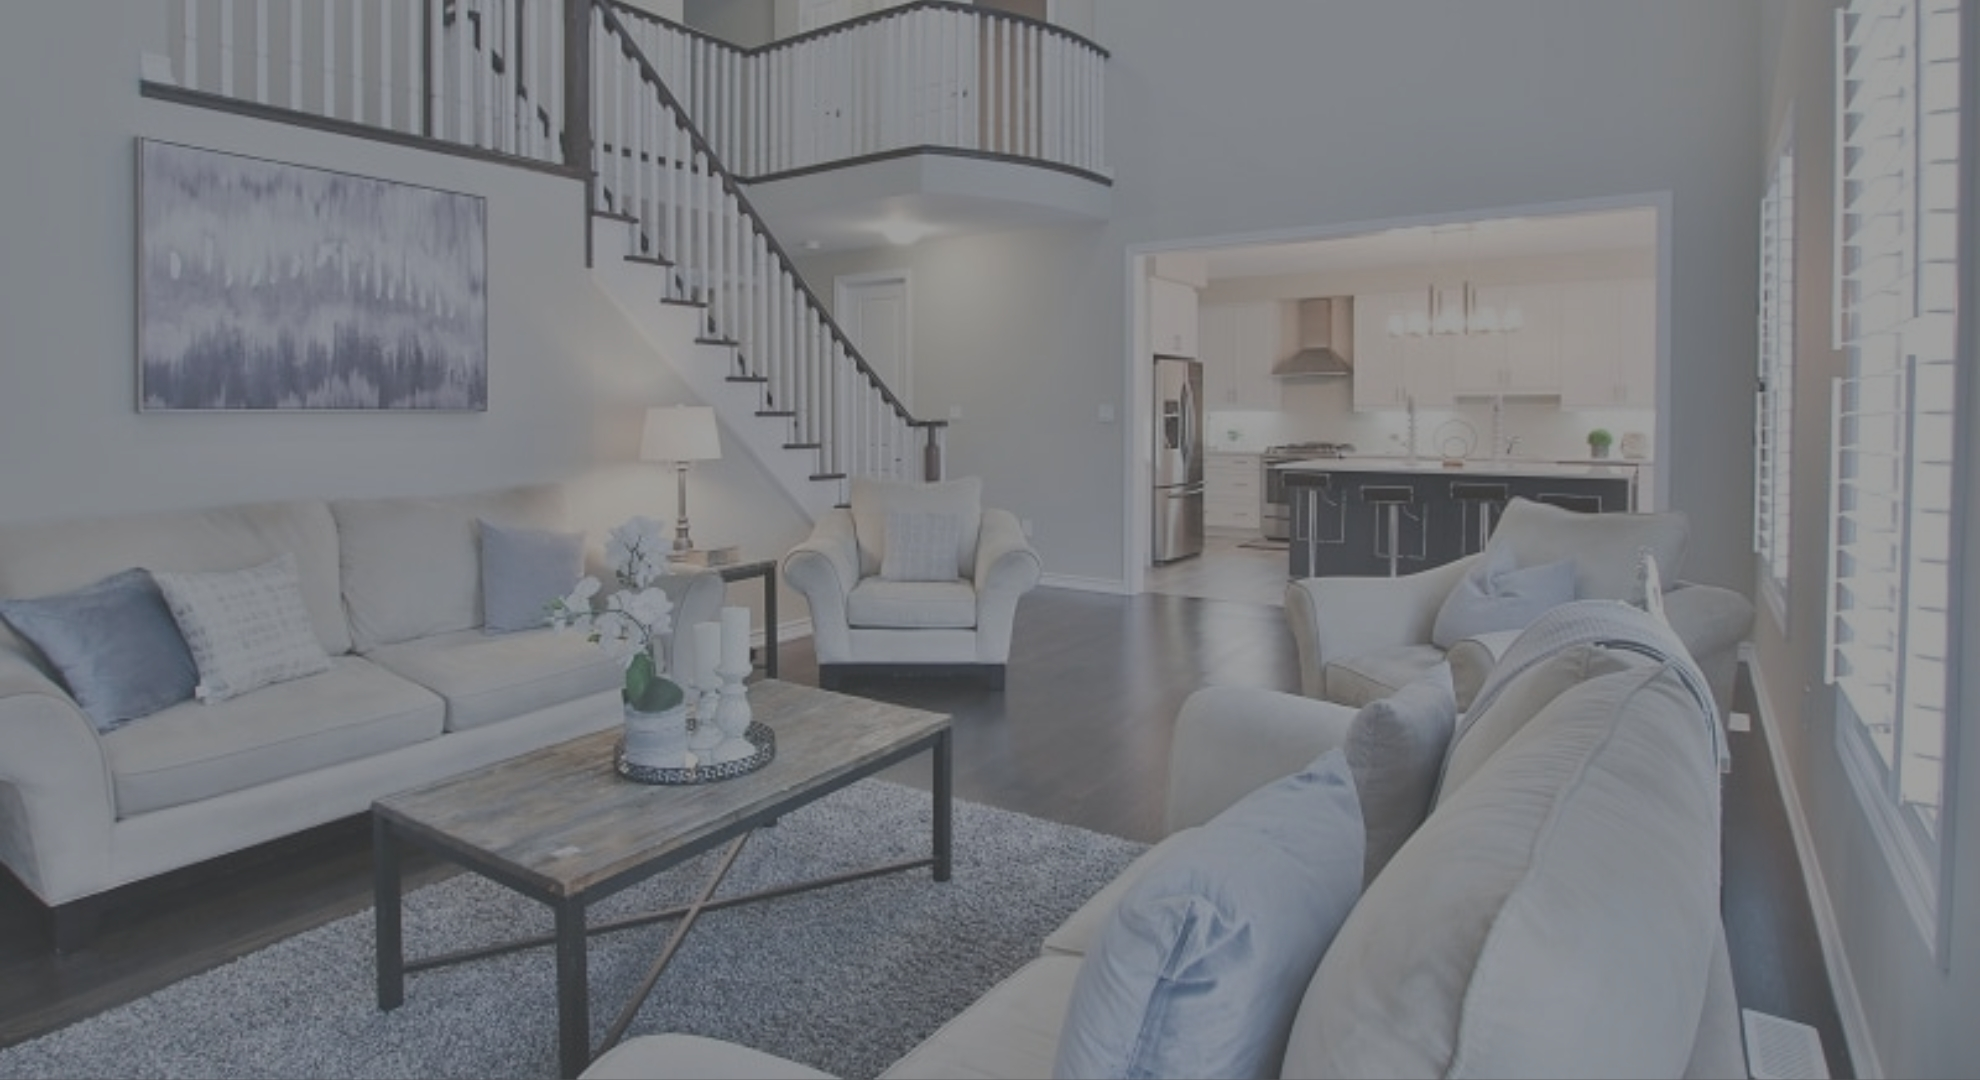
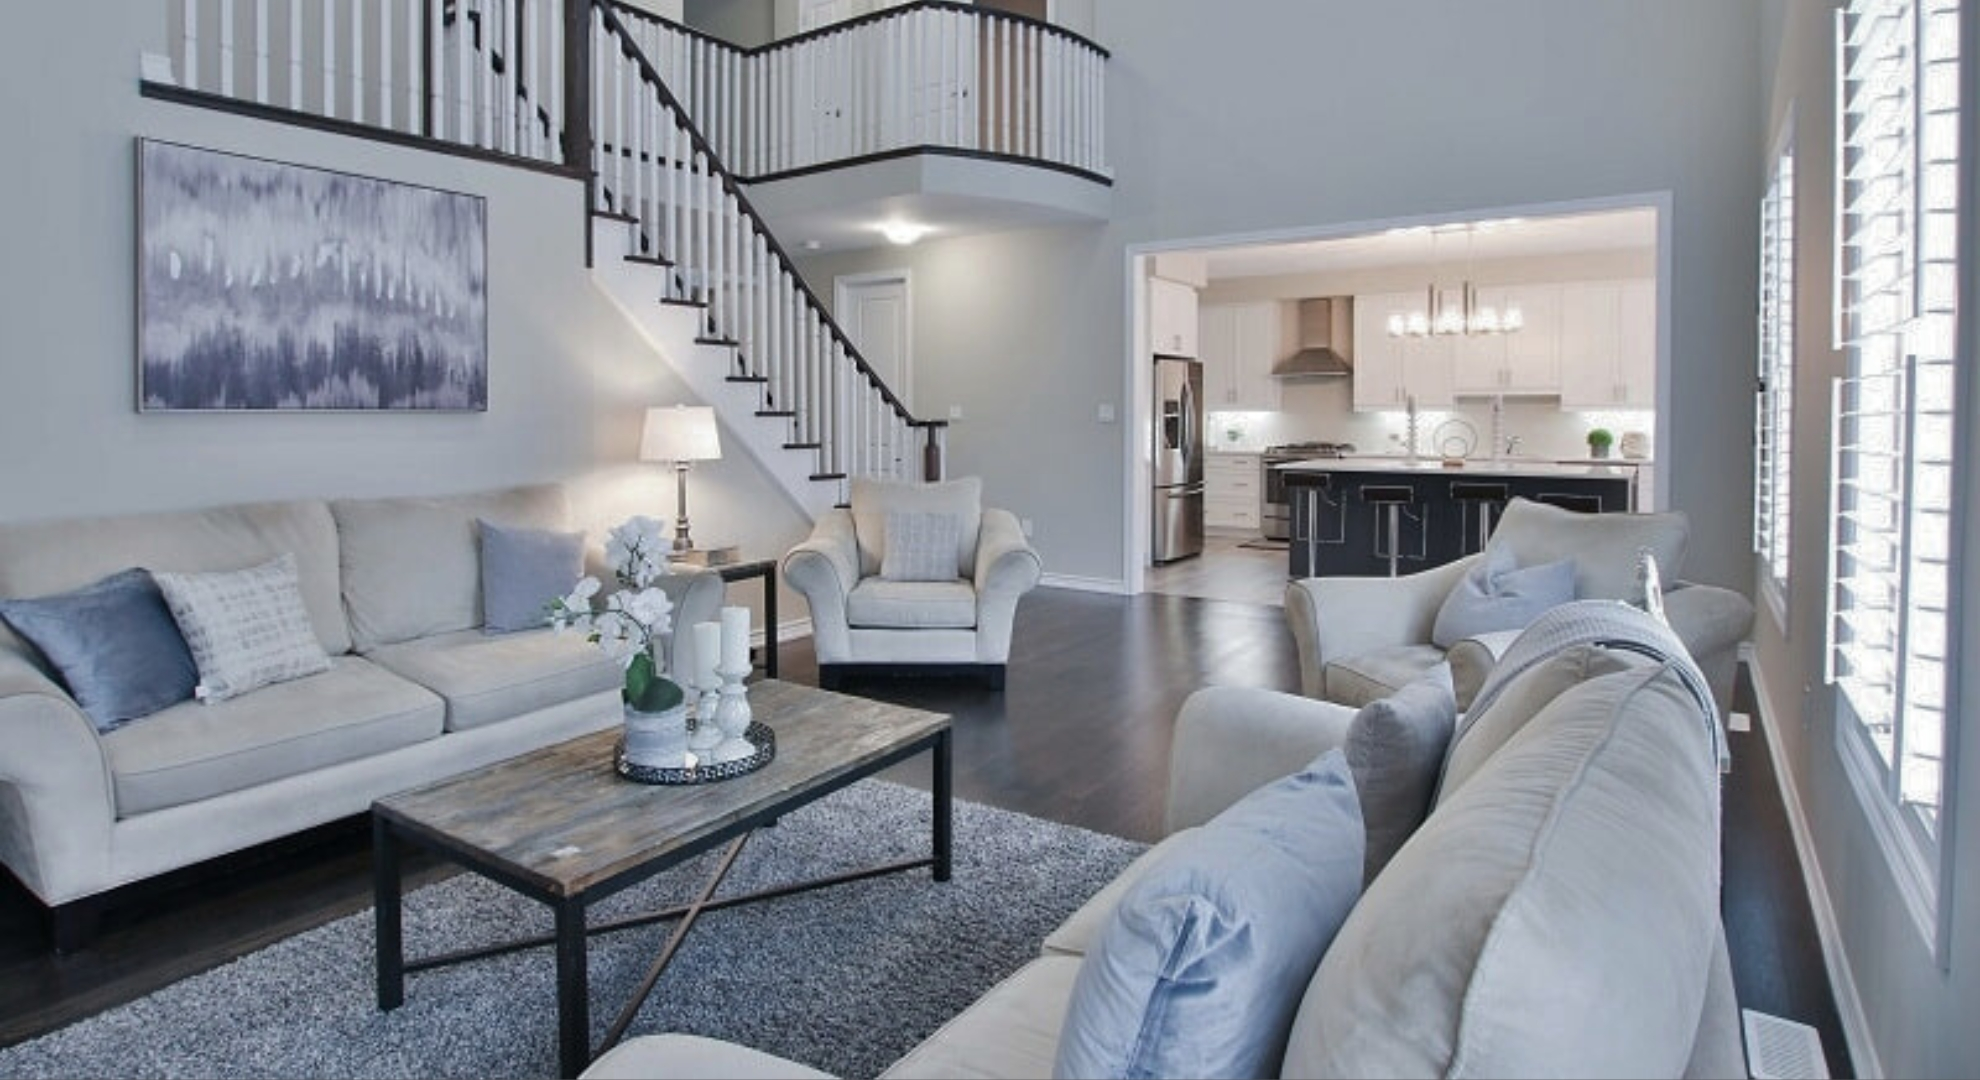
third commit

diff --git a/index.html b/index.html
@@ -39,6 +39,7 @@
 
 <body class="index-page">
 
+
   <header id="header" class="header d-flex align-items-center fixed-top">
     <div class="container-fluid container-xl position-relative d-flex align-items-center justify-content-between">
 
@@ -53,7 +54,7 @@
           <li><a >SEARCH FOR HOMES</a></li>
           <li><a >OUR COMMUNITIES</a></li>
           <li><a >HOME EVALUATION</a></li>
-          <li><a href="index.html">SERVICES</a></li>
+          <li><a class="active" href="index.html">SERVICES</a></li>
           <li><a >HOME ACROSS AMERICA</a></li>
           <li><a >TESTIMONIALS</a></li>
           <li><a >CONTACT US</a></li>
@@ -81,8 +82,8 @@
         <!-- Slide 1 -->
         <div class="carousel-item active">
           <div class="carousel-container">
-            <h1 class="animate__animated animate__fadeInDown">Services</h1>
-            <p class="animate__animated animate__fadeInUp">We offer services that caters your need.</p>
+            <h1 class="animate__animated animate__fadeInDown" style="font-size: 5em;">Services</h1>
+            <p class="animate__animated animate__fadeInUp" style="font-size: 2em;">We offer services that cater to your needs.</p>
             <a href="#services" class="btn-get-started animate__animated animate__fadeInUp scrollto">Read More</a>
           </div>
         </div>
@@ -90,8 +91,8 @@
         <!-- Slide 2 -->
         <div class="carousel-item">
           <div class="carousel-container">
-            <h1 class="animate__animated animate__fadeInDown">Services</h1>
-            <p class="animate__animated animate__fadeInUp">We offer services that caters your need.</p>
+            <h1 class="animate__animated animate__fadeInDown" style="font-size: 5em;">Services</h1>
+            <p class="animate__animated animate__fadeInUp" style="font-size: 2em;">We offer services that cater to your needs.</p>
             <a href="#services" class="btn-get-started animate__animated animate__fadeInUp scrollto">Read More</a>
           </div>
         </div>
@@ -99,10 +100,10 @@
         <!-- Slide 3 -->
         <div class="carousel-item">
           <div class="carousel-container">
-            <h1 class="animate__animated animate__fadeInDown">Services</h1>
-            <p class="animate__animated animate__fadeInUp">We offer services that caters your need.</p>
+            <h1 class="animate__animated animate__fadeInDown" style="font-size: 5em;">Services</h1>
+            <p class="animate__animated animate__fadeInUp" style="font-size: 2em;">We offer services that cater to your needs.</p>
             <a href="#services" class="btn-get-started animate__animated animate__fadeInUp scrollto">Read More</a>
-          </div>
+         </div>
         </div>
 
        
@@ -139,15 +140,18 @@
 
         <div class="row gy-4">
 
-          <div class="col-lg-6 content" data-aos="fade-up" data-aos-delay="100">
-            <p>
+          <div class="col-lg-6 content" style="text-align: justify;" data-aos="fade-up" data-aos-delay="100">
+            <p style="padding-right: 100px;">
               An elite group of the East Bay’s most talented and visionary real estate professionals believed buyers and sellers deserved more from their real estate company. 
               More service. More resources. More integrity. More global reach. In a word, more of everything people should expect when they buy or sell their homes.
             </p>
           </div>
-
-          <div class="col-lg-6" data-aos="fade-up" data-aos-delay="200">
-            <a href="#features" class="read-more"><span>Read More</span><i class="bi bi-arrow-right"></i></a>
+          <div class="col-lg-6"  data-aos="fade-up" data-aos-delay="200">
+            <h2 style="font-weight: bold; " >MAKE YOUR RESERVATION</h2>
+        <p style="padding-right: 100px;">If you are thinking of Buying or Selling, Now can be a great time to make a move.</p>
+        
+        <a href="https://hansenpartners.net/home-search/listings?sortBy=LP_LISTING_ON_MARKET_TIMESTAMP&sortDirection=DESC&propertyType=%5B%22COMMERCIAL%22%2C%22CONDO%22%2C%22CO_OP%22%2C%22LAND%22%2C%22MANUFACTURED_MOBILE%22%2C%22MULTI_FAMILY%22%2C%22OTHER%22%2C%22RESIDENTIAL%22%2C%22TOWNHOUSE%22%5D&listingStatus=%5B%22ACTIVE%22%2C%22COMING_SOON%22%5D&center=%7B%22lat%22%3A37.695118812286985%2C%22lng%22%3A-121.90293729999999%7D&zoom=11&boundary=%5B%5B%5B37.91402646905464%2C-122.07459867695312%5D%2C%5B37.91402646905464%2C-121.73127592304687%5D%2C%5B37.475562934874624%2C-121.73127592304687%5D%2C%5B37.475562934874624%2C-122.07459867695312%5D%2C%5B37.91402646905464%2C-122.07459867695312%5D%5D%5D&omnibox=&keyword=&page=1&limit=48&isLease=false&cityName=&stateName=" class="read-more"><span>Search a Home</span><i class="bi bi-search"></i></a>   
+       <a style="margin-top: 5px;"href="#contact" class="read-more"><span>Book an Appointment</span><i class="bi bi-arrow-right"></i></a>
           </div>
 
         </div>
@@ -296,7 +300,7 @@
 
     <!-- Call To Action Section -->
     <section id="call-to-action" class="call-to-action section dark-background"  style="
-    background-image: url('assets/img/servicebg.jpg'); /* Replace with your image path */
+    background-image: url('assets/img/asaleading.jpg'); /* Replace with your image path */
     background-size: cover;
     background-position: center;
     background-repeat: no-repeat;
@@ -388,8 +392,7 @@
       </div>
 
     </section><!-- /Services Section -->
-
-  
+    
     <section id="tabs" class="tabs section light-background">
 
       <div class="container">
@@ -524,20 +527,38 @@ document.addEventListener('DOMContentLoaded', function() {
 
       <!-- Section Title -->
       <div class="container section-title" data-aos="fade-up">
-        <h2>The Buying Process</h2>
-        <p>The Buying Process</p>
+          <h2>The Buying Process</h2>
+          <p>The Buying Process</p>
+
+          <div class="number-container">
+              <div class="number-item">
+                  <div class="number">1</div>
+                  <div class="description">Initial Consultation & Planning</div>
+              </div>
+              <div class="separator"></div>
+              <div class="number-item">
+                  <div class="number">2</div>
+                  <div class="description">Search for a Home & Get Pre-Approved</div>
+              </div>
+              <div class="separator"></div>
+              <div class="number-item">
+                  <div class="number">3</div>
+                  <div class="description">Submit an Offer</div>
+              </div>
+              <div class="separator"></div>
+              <div class="number-item">
+                  <div class="number">4</div>
+                  <div class="description">Complete Settlement Process</div>
+              </div>
+          </div>
+
       </div><!-- End Section Title -->
 
-      <div class="container">
-
-       
-      </div>
-
-    </section><!-- /Pricing Section -->
+  </section>
 
    
     <section id="work-with-us" class="call-to-action section dark-background"  style="
-    background-image: url('assets/img/servicebg.jpg'); /* Replace with your image path */
+    background-image: url('assets/img/workwithus.jpg'); /* Replace with your image path */
     background-size: cover;
     background-position: center;
     background-repeat: no-repeat;
@@ -576,32 +597,32 @@ document.addEventListener('DOMContentLoaded', function() {
               <div class="accordion-item">
                 <h2 class="mb-0">
                   <button class="btn btn-link" type="button" data-bs-toggle="collapse" data-bs-target="#collapse-faq-1">
-                    How to download and register?
+                    How to have a better Stage Experience?
                   </button>
                 </h2>
 
                 <div id="collapse-faq-1" class="collapse show" aria-labelledby="headingOne" data-parent="#accordion-faq">
                   <div class="accordion-body">
-                    Far far away, behind the word mountains, far from the countries
-                    Vokalia and Consonantia, there live the blind texts. Separated
-                    they live in Bookmarksgrove right at the coast of the Semantics,
-                    a large language ocean.
-                  </div>
+                    Unclutter and organize your home
+                    Neatly arrange drawers and cabinets
+                    Keep pets outdoors or off the premises
+                    Play soft music</div>
                 </div>
               </div>
               <!-- .accordion-item -->
 
               <div class="accordion-item">
                 <h2 class="mb-0">
-                  <button class="btn btn-link collapsed" type="button" data-bs-toggle="collapse" data-bs-target="#collapse-faq-2" "="">
-                How to create your paypal account?
+                  <button class="btn btn-link collapsed" type="button" data-bs-toggle="collapse" data-bs-target="#collapse-faq-2" >
+                    What steps can I take to prepare my home for sale?
               </button>
             </h2>
             <div id=" collapse-faq-2" class="collapse" aria-labelledby="headingTwo" data-parent="#accordion-faq">
                     <div class="accordion-body">
-                      A small river named Duden flows by their place and supplies it
-                      with the necessary regelialia. It is a paradisematic country, in
-                      which roasted parts of sentences fly into your mouth.
+                      Declutter and Clean: Remove excess items and clean your home thoroughly to make it more appealing to buyers.
+Make Repairs: Address any minor repairs or maintenance issues to enhance the property’s condition.
+Stage Your Home: Consider staging your home or using professional photography to highlight its best features.
+Get a Pre-Inspection: A pre-inspection can identify potential issues that may arise during the buyer’s inspection, allowing you to address them beforehand.
                     </div>
               </div>
             </div>
@@ -610,17 +631,16 @@ document.addEventListener('DOMContentLoaded', function() {
             <div class="accordion-item">
               <h2 class="mb-0">
                 <button class="btn btn-link collapsed" type="button" data-bs-toggle="collapse" data-bs-target="#collapse-faq-3">
-                  How to link your paypal and bank account?
+                  How can I ensure a smooth closing process?
                 </button>
               </h2>
 
               <div id="collapse-faq-3" class="collapse" aria-labelledby="headingThree" data-parent="#accordion-faq">
                 <div class="accordion-body">
-                  When she reached the first hills of the Italic Mountains, she
-                  had a last view back on the skyline of her hometown
-                  Bookmarksgrove, the headline of Alphabet Village and the subline
-                  of her own road, the Line Lane. Pityful a rethoric question ran
-                  over her cheek, then she continued her way.
+                  Stay Organized: Keep all required documents, such as proof of identity, income verification, and bank statements, readily available.
+Communicate Regularly: Maintain open communication with your real estate agent, lender, and attorney to stay updated on the process.
+Review Documents Early: Carefully review all closing documents ahead of time to address any questions or discrepancies before the closing day.
+Secure Financing: Ensure your mortgage approval is finalized and that all necessary funds for closing are readily available.
                 </div>
               </div>
             </div>

diff --git a/portfolio-details.html b/portfolio-details.html
@@ -104,22 +104,15 @@
           </script>
           <div class="swiper-wrapper align-items-center">
 
-            <div class="swiper-slide">
-              <img src="assets/img/portfolio/app-1.jpg" alt="">
+            <div class="swiper-slide" >
+              <img src="assets/img/luxury.JPG" alt="">
             </div>
 
-            <div class="swiper-slide">
-              <img src="assets/img/portfolio/product-1.jpg" alt="">
+            <div class="swiper-slide" >
+              <img src="assets/img/global.jpg" alt="">
             </div>
 
-            <div class="swiper-slide">
-              <img src="assets/img/portfolio/branding-1.jpg" alt="">
-            </div>
-
-            <div class="swiper-slide">
-              <img src="assets/img/portfolio/books-1.jpg" alt="">
-            </div>
-
+    
           </div>
           <div class="swiper-button-prev"></div>
           <div class="swiper-button-next"></div>
@@ -133,17 +126,18 @@
               <p>
                 Through our international affiliations, we have a strong presence in over 50 countries. Our luxury listings are sent to prominent international real estate sites, reaching over 70 million potential buyers and investors worldwide through our relationships with:
               </p>
-              <img src="assets/img/portfolio/">
-              <img src="assets/img/portfolio/">
-              <img src="assets/img/portfolio/">
+              <img src="assets/img/partners.JPG">
+              </div>
+              </div>
+              <br/>
               <p>
                 We also have several well-positioned affiliate offices in China, providing our clients with access to buyers in Hong Kong, Shanghai, and Beijing.               </p>
 
             </div>
-          </div>
 
           <div class="col-lg-3" data-aos="fade-up" data-aos-delay="100">
             <div class="portfolio-info">
+              <br/>
               <h3>Information</h3>
               <ul>
                 <li><strong>Category</strong> Real Estate</li>
@@ -168,10 +162,7 @@
     <div class="container">
       <h3 class="sitename">Sereno</h3>
       <div class="social-links d-flex justify-content-center">
-        <a href=""><i class="bi bi-twitter-x"></i></a>
         <a href=""><i class="bi bi-facebook"></i></a>
-        <a href=""><i class="bi bi-instagram"></i></a>
-        <a href=""><i class="bi bi-skype"></i></a>
         <a href=""><i class="bi bi-linkedin"></i></a>
       </div>
       

diff --git a/assets/css/main.css b/assets/css/main.css
@@ -259,7 +259,37 @@ h6 {
   color: var(--heading-color);
 }
 
+.number-container {
+  display: flex;
+  align-items: center;
+  background-color: #fff; /* White background */
+  padding: 20px;
+  justify-content: center;
+}
+.number-item {
+  text-align: center;
+  margin: 0 20px; /* Space between numbers */
+}
+.number {
+  font-size: 4rem;
+  font-weight: bold;
+  color: #333; /* Dark gray color */
+  background-color: #e0e0e0; /* Light gray background for numbers */
+  padding: 15px;
+  width: 150px; /* Fixed width */
+  height: 150px; /* Fixed height */
+  display: contents;
+  justify-content: center;
+  align-items: center;
+  box-shadow: 0 2px 4px rgba(0, 0, 0, 0.1); /* Subtle shadow */
+  margin-bottom: 20px; /* Space between number and description */
+}
 
+.description {
+  font-size: 1rem;
+  color: #666; /* Medium gray color for descriptions */
+  margin-top: 20px; /* Space between number and description */
+}
 /*--------------------------------------------------------------
 # Global Header
 --------------------------------------------------------------*/
@@ -946,21 +976,26 @@ section,
 /*--------------------------------------------------------------
 # About Section
 --------------------------------------------------------------*/
+
 .about ul {
   list-style: none;
   padding: 0;
+  
 }
 
 .about ul li {
   padding-bottom: 5px;
   display: flex;
   align-items: center;
+  
 }
+
 
 .about ul i {
   font-size: 20px;
   padding-right: 4px;
   color: var(--accent-color);
+  
 }
 
 .about .read-more {
